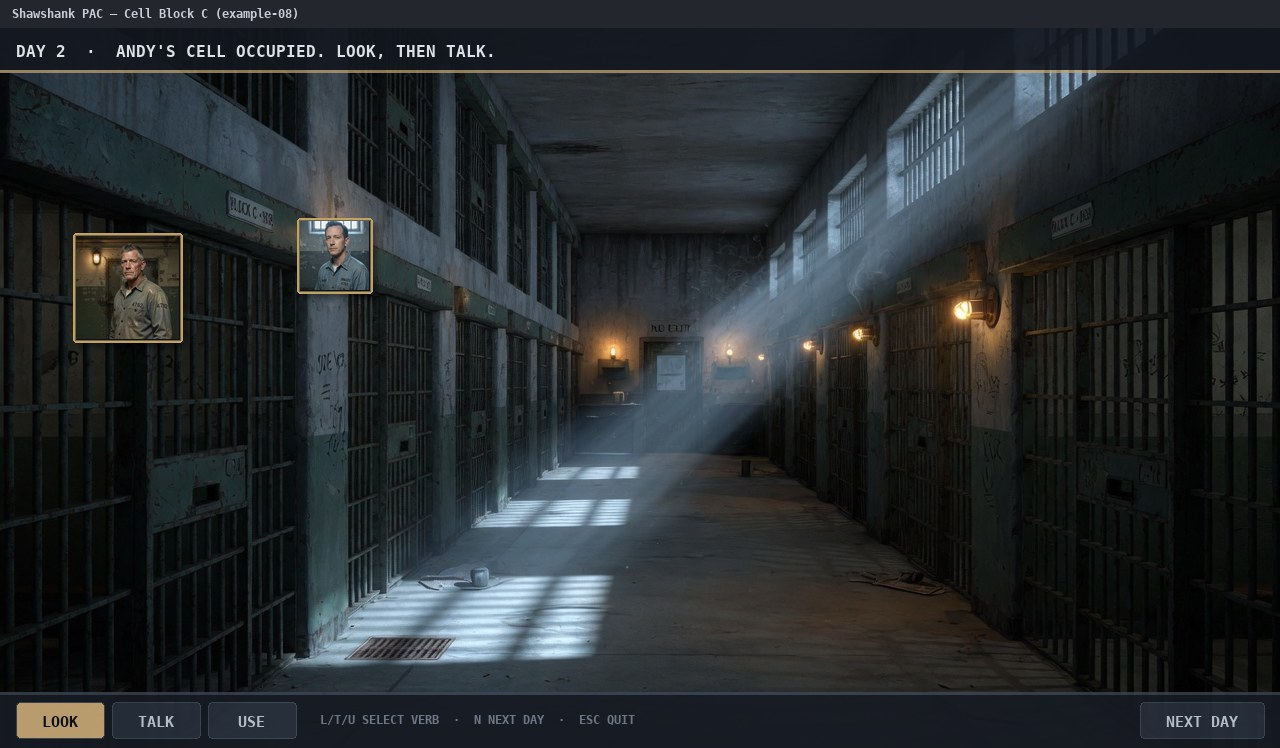
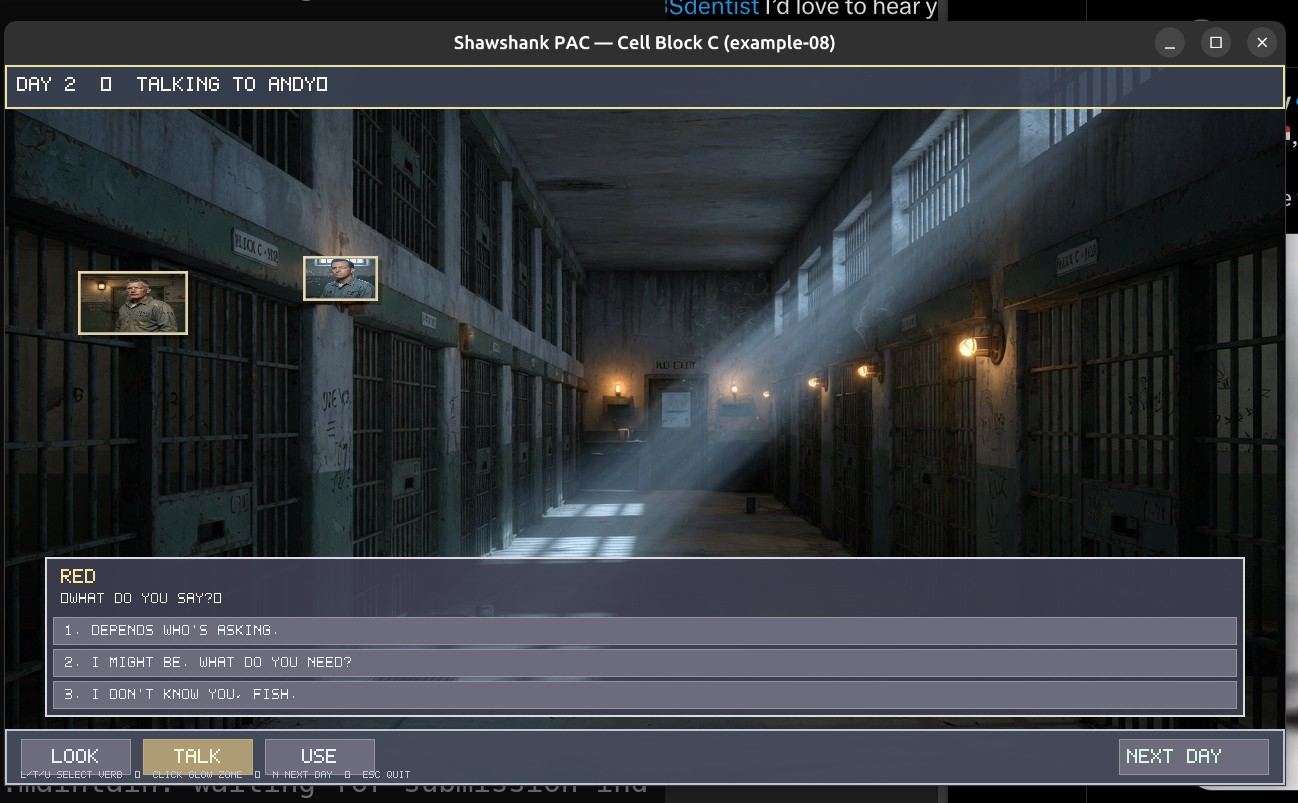
docs: use live Shawshank PAC window screenshot in README
Replace the composite promo still with a real example-08 capture
(dialog open, TALK selected, Day 2 portraits).

diff --git a/README.md b/README.md
@@ -38,7 +38,7 @@ Repository directory name remains `adventure-engine` (crate paths) until a full 
 Playable SCUMM-style chrome on a full cellblock still: status strip, **LOOK / TALK / USE**, **NEXT DAY**, face-cropped hub portraits, door-aligned hotspots.
 
 <p align="center">
-  <img src="docs/assets/readme/shawshank-pac.jpg" alt="Shawshank PAC — Cell Block C (example-08) with LOOK/TALK/USE chrome and hub portraits" width="100%"/>
+  <img src="docs/assets/readme/shawshank-pac.jpg" alt="Shawshank PAC — Cell Block C (example-08): cellblock still, hub portraits, LOOK/TALK/USE bar, and Red dialog choices" width="100%"/>
 </p>
 
 ```bash

diff --git a/examples/08-shawshank-pac/README.md b/examples/08-shawshank-pac/README.md
@@ -4,7 +4,7 @@ Playable chrome: **status strip**, **LOOK / TALK / USE** verb bar, **NEXT DAY**,
 face-cropped hub portraits, door-aligned hotspots, dialog text.
 
 <p align="center">
-  <img src="../../docs/assets/readme/shawshank-pac.jpg" alt="Shawshank PAC — Cell Block C with LOOK/TALK/USE chrome" width="100%"/>
+  <img src="../../docs/assets/readme/shawshank-pac.jpg" alt="Shawshank PAC — Cell Block C: hub portraits, verb bar, Red dialog choices" width="100%"/>
 </p>
 
 ```bash
